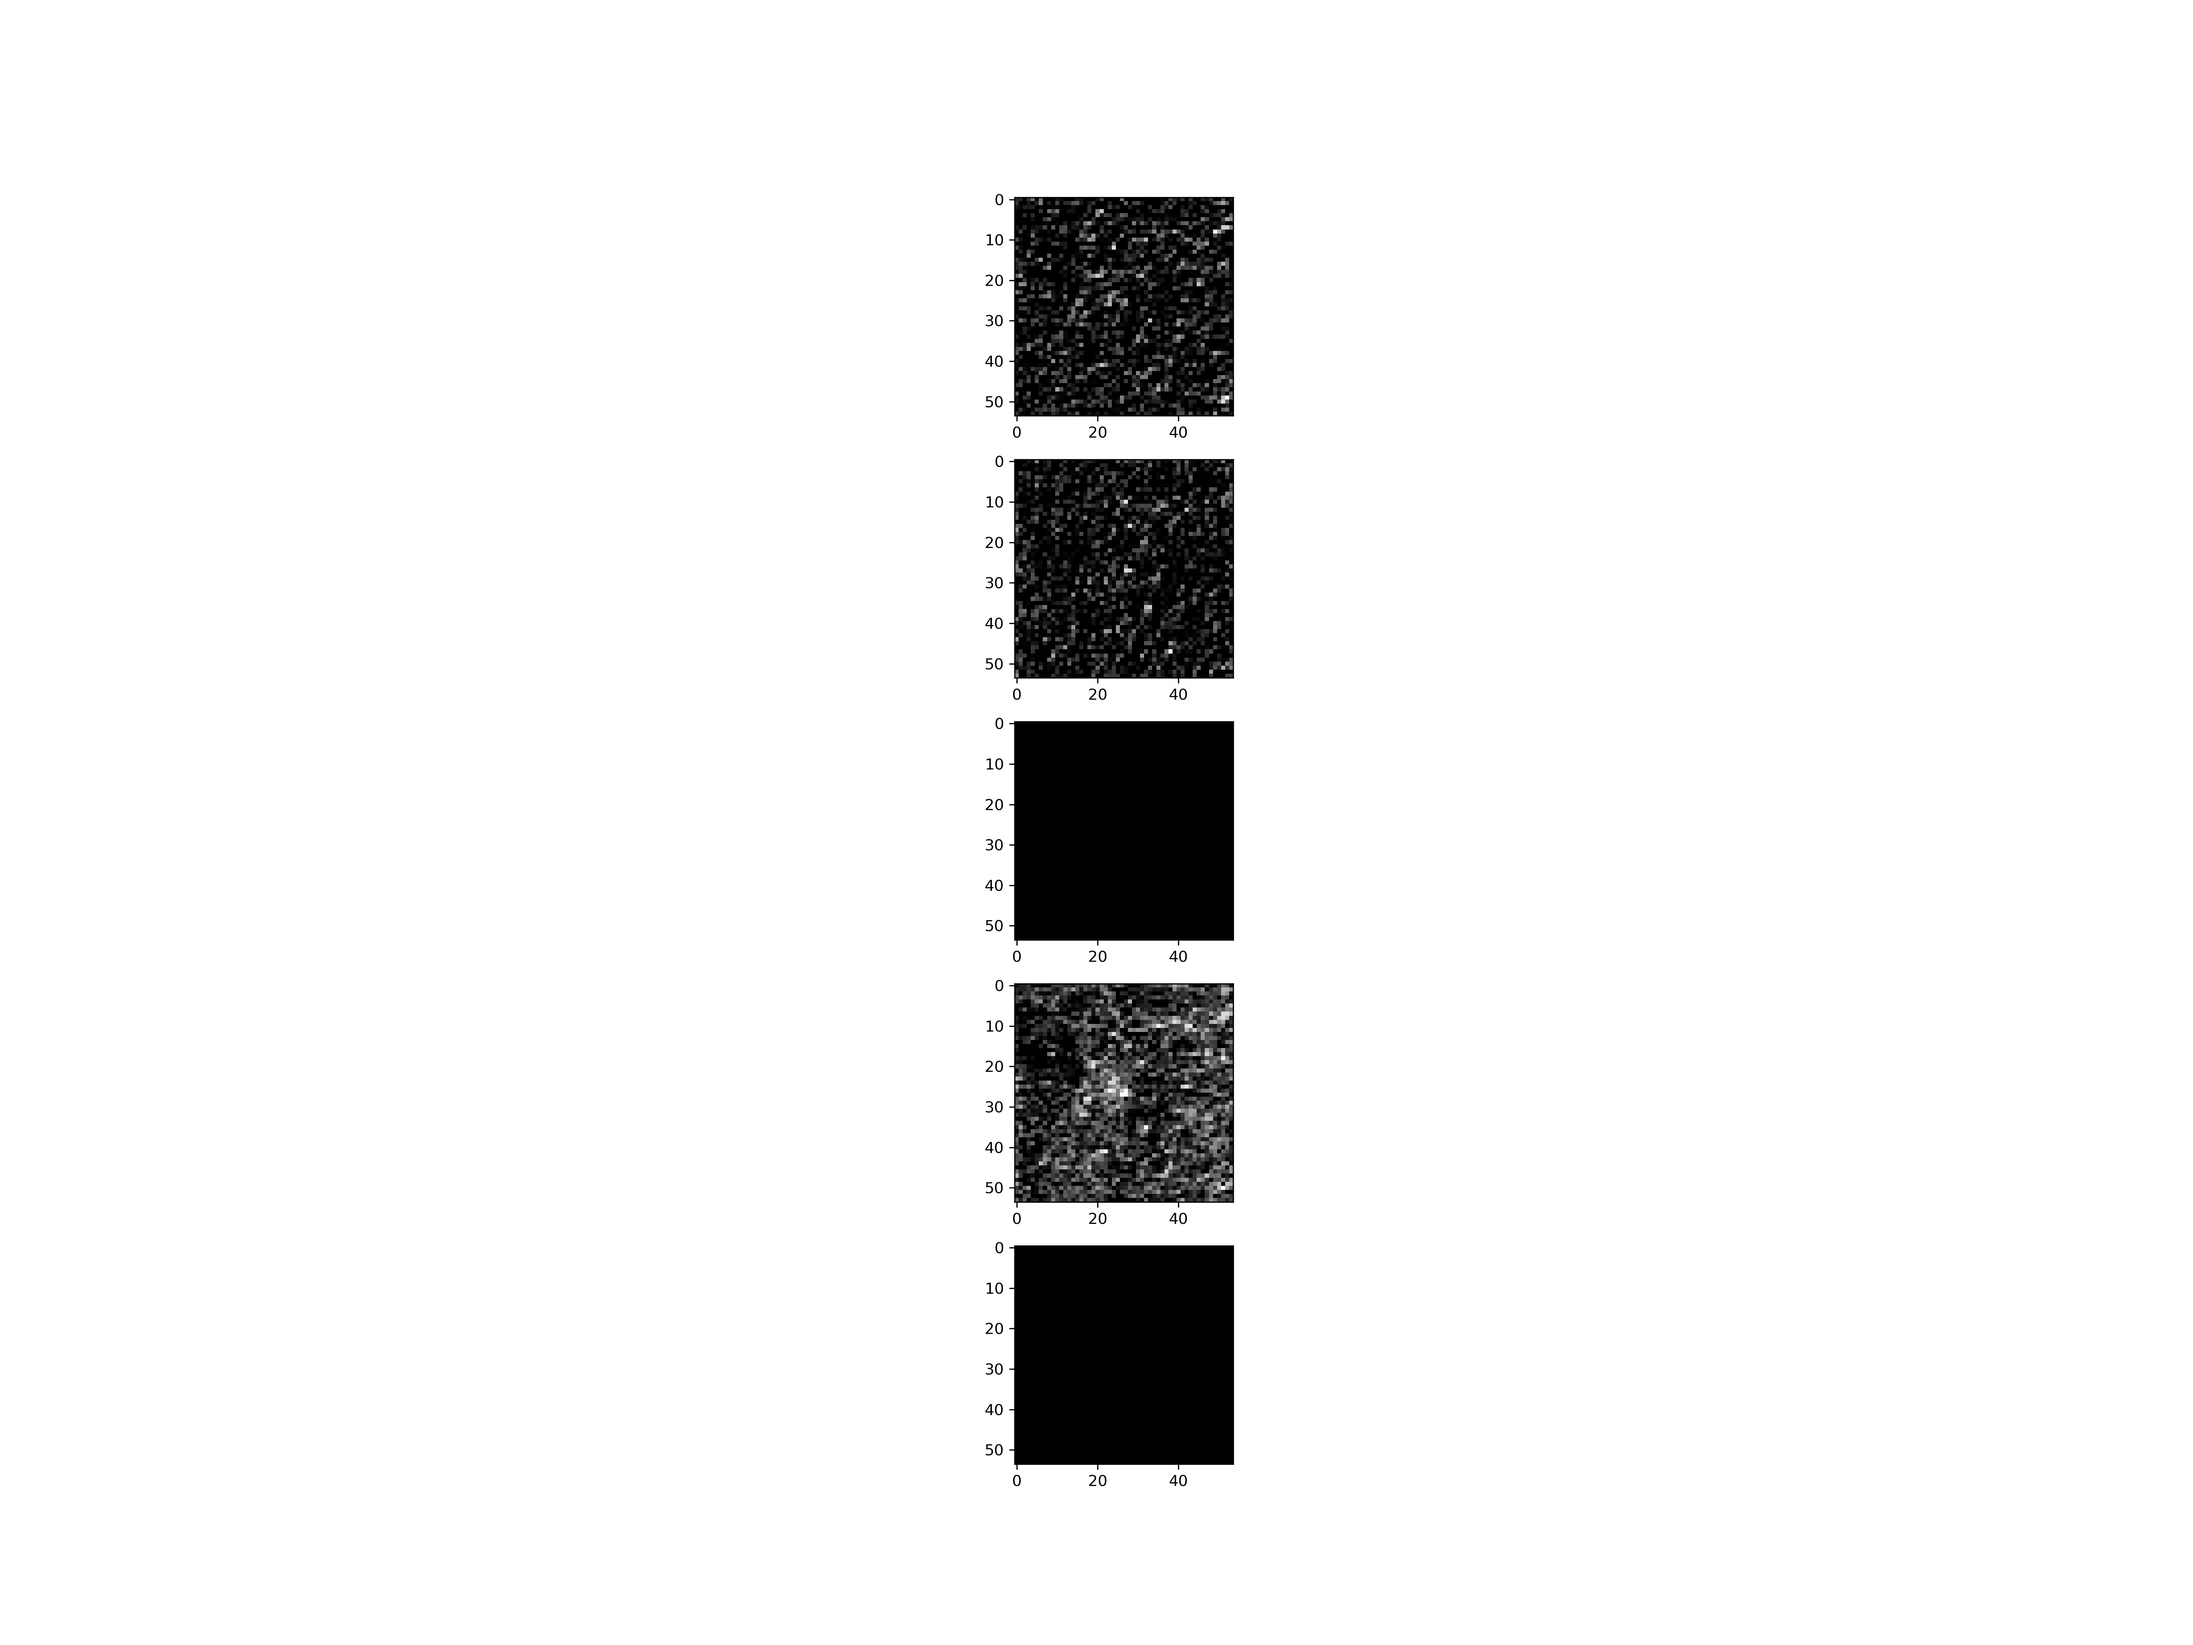
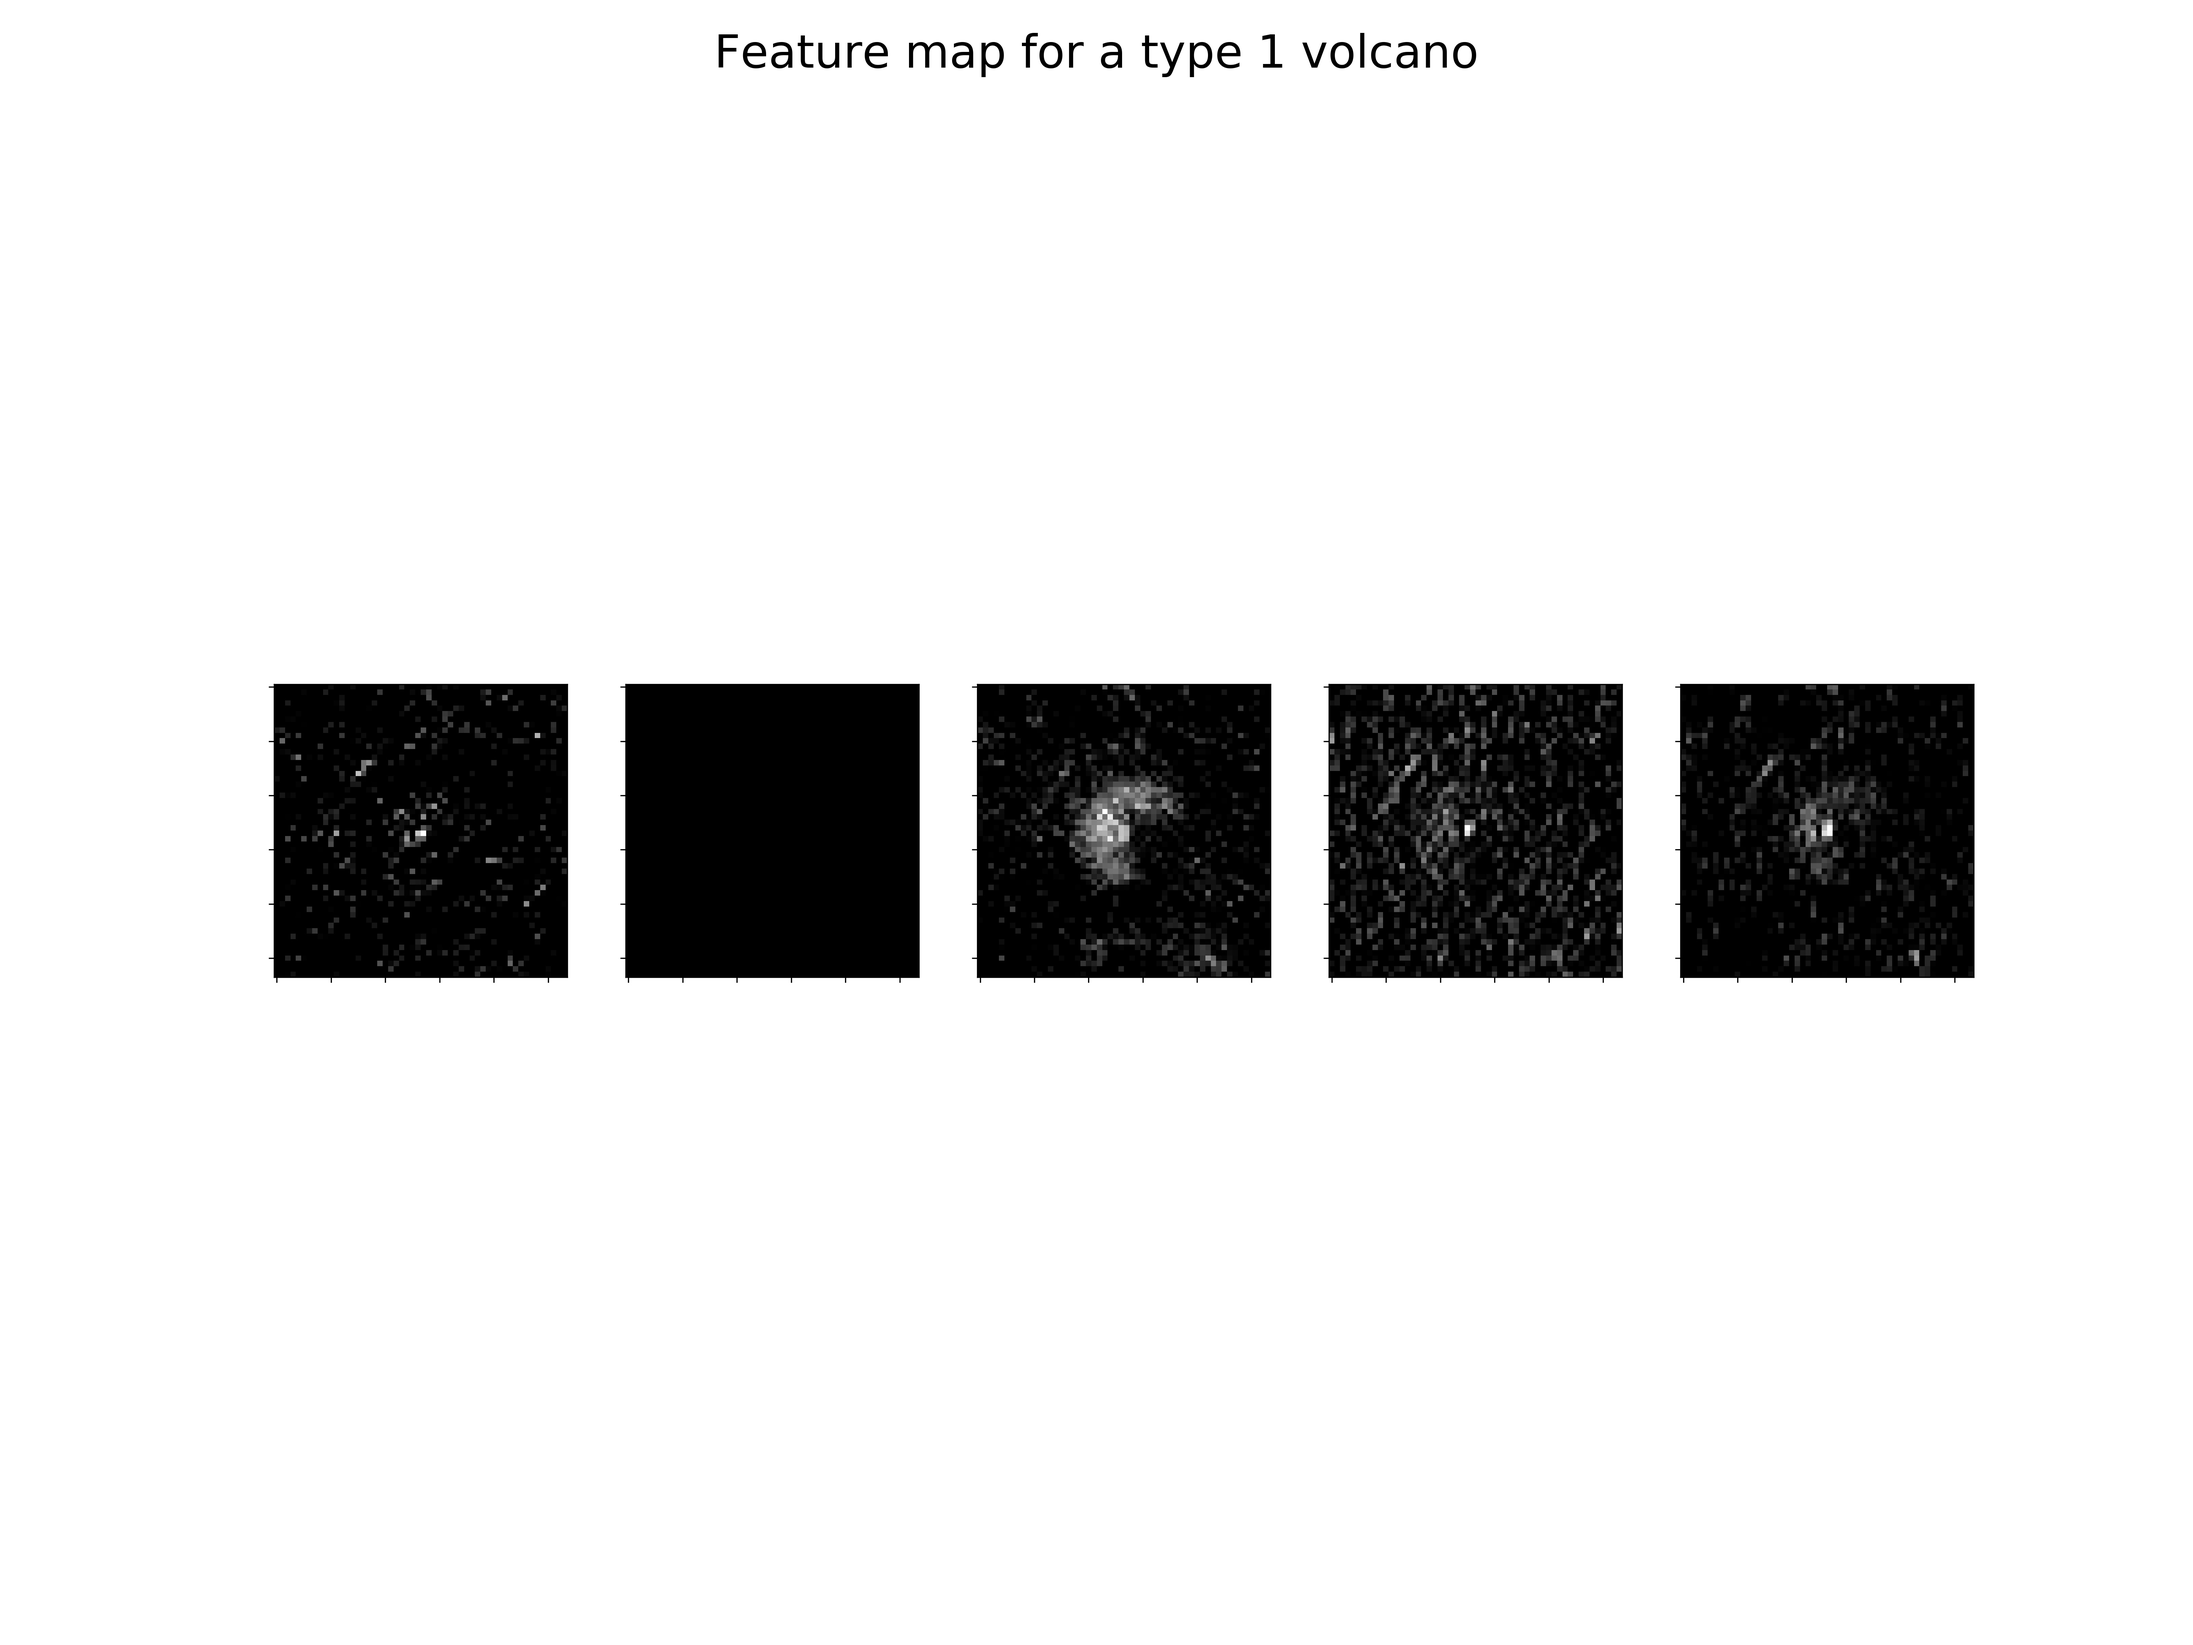
minor changes - removed and remaned files

diff --git a/feature_extraction_cnn.py b/feature_extraction_cnn.py
@@ -29,25 +29,27 @@ for i in range(len(model.layers)):
 model_viz = Model(inputs=model.inputs , outputs=model.layers[1].output)
 
 # Select normalized image
-image = img_data_normalized[0]
+image = img_data_normalized[8]
 image = np.expand_dims(image, axis=0) # Need to expand dimensions so that the
 # input looks like something from within the network
 
-#calculating features_map
+# Image of which the feature map will be computed
+fig, ax = plt.subplots(1, 1, figsize=(15,15), tight_layout=False)
+plt.suptitle("Type 1 Volcano - Example for the Feature Map", fontsize=30)
+ax.imshow(image.reshape(110, 110), cmap='gray')
+ax.set_xticklabels([])
+ax.set_yticklabels([])
+plt.savefig("figures/image_of_featuremap.jpg", dpi=300)
+
+# Compute and plot the feature map for one of the images
+# from the second convo layer
 features = model_viz.predict(image).reshape(54, 54, 5)
-fig, ax = plt.subplots(5, 1, figsize=(20,15))
+fig, ax = plt.subplots(1, 5, figsize=(20,15), tight_layout=False)
+plt.suptitle("Feature map for a type 1 volcano", fontsize=30)
 for i in range(5):
     ax[i].imshow(features[:,:,i],
      cmap='gray') #, vmin=min(features[:,:,i]), vmax=max(features[:,:,i]))
     ax[i].set_xticklabels([])
     ax[i].set_yticklabels([])
-plt.savefig("feature_map.jpg", dpi=300)
+plt.savefig("figures/feature_map.jpg", dpi=300)
 plt.close()
-
-
-plt.imshow(image.reshape(110, 110), cmap='gray')
-plt.savefig("image_to_feature_map.jpg", dpi=300)
-
-# It might be that we need to remove some columns/rows to return the
-# correct shape for the convo filter -> use below code for that
-# image = (image.reshape(110, 110))[1:109, 1:109].reshape(108, 108, 1)

diff --git a/plots_debug.py b/plots_debug.py
@@ -1,7 +1,7 @@
 import numpy as np
 import matplotlib.pyplot as plt
 import pandas as pd
-from helper_functions import load_volcano_data, rotate_180, rotate_270
+from data_loading_functions import load_raw_volcano_data
 
 train_images, train_labels, test_images, test_labels = load_volcano_data()
 
@@ -29,8 +29,7 @@ plt.show()
 
 ### OVERVIEW PLOTS #####
 # Study the balancing of the data set
-total_img = pd.concat([train_images, test_images])
-total_lbl = pd.concat([train_labels, test_labels])
+total_img, total_lbl = load_raw_volcano_data(False)
 
 # Veeery unbalanced
 fig, ax = plt.subplots(1, 1, figsize=[10,10])
@@ -41,7 +40,7 @@ ax.bar(np.unique(total_lbl["Volcano?"]),
                     len(total_lbl["Volcano?"].loc[total_lbl["Volcano?"] == 1])],
             color=["orange", "green"], alpha=0.65,
             tick_label=[r"No Volcano", "Volcano"])
-plt.show()
+plt.savefig("figures/class_distribution.jpg", dpi=300)
 
 # From those that are 1 -> get the secondary key
 fig, ax = plt.subplots(1, 1, figsize=[10,10])
@@ -57,4 +56,4 @@ ax.bar([1, 2, 3, 4],
                     r"$p \approx 0.80$",
                     r"$p \approx 0.60$",
                     r"$p \approx 0.50$"])
-plt.show()
+plt.savefig("figures/subclass_distribution.jpg", dpi=300)

diff --git a/CNN_v1.py b/CNN_v1.py
@@ -62,4 +62,4 @@ print("Model accuracy: {:5.2f}%".format(100 * acc))
 plt.plot(history.history['acc'], label="train acc")
 plt.plot(history.history['val_acc'], label="val acc")
 plt.legend()
-plt.savefig('acctraining.jpg', dpi=300)
+plt.savefig('figures/acctraining.jpg', dpi=300)
